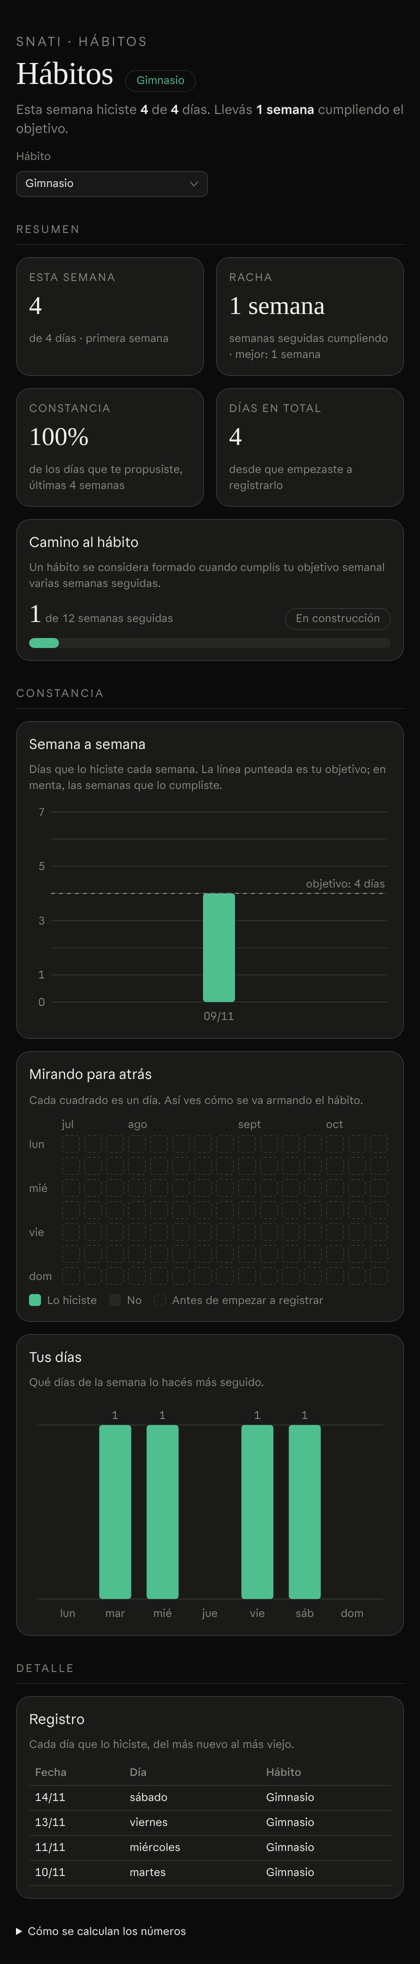
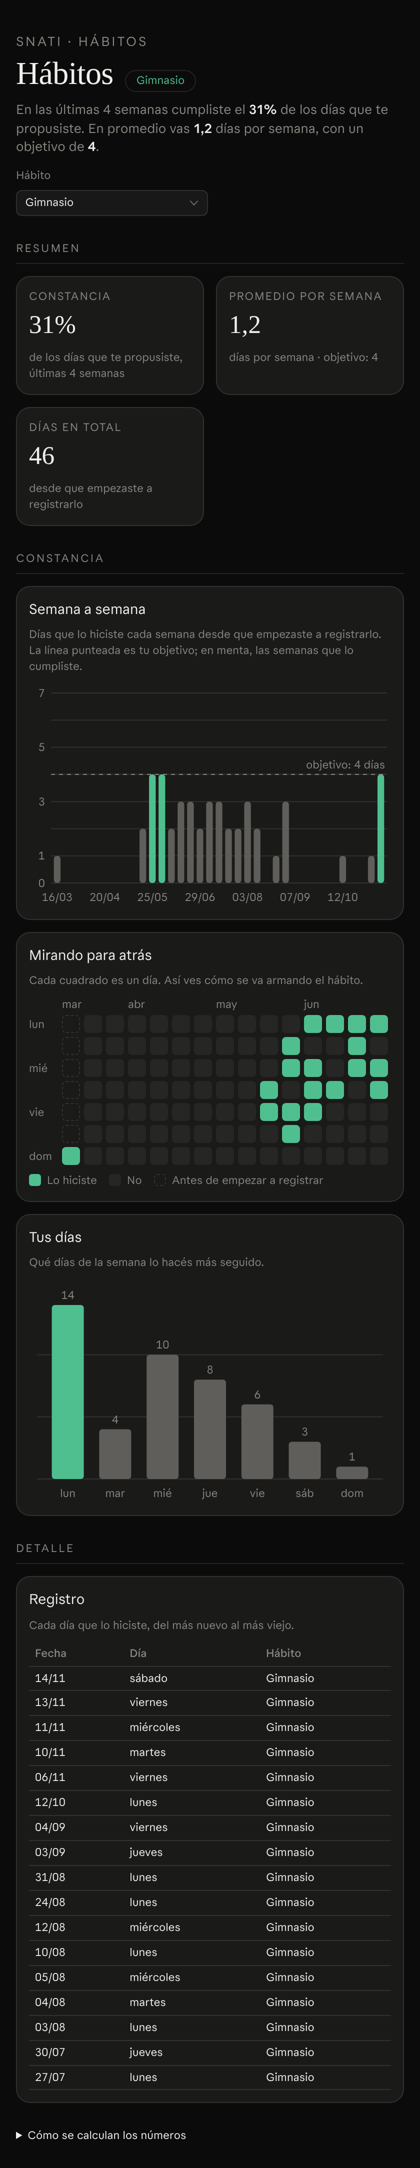
Habitos: historial del gimnasio desde marzo (tracker de Snati) y calendario a todo el ancho
Claude-Session: https://claude.ai/code/session_01PpP39kW1xYnVw7kQo1jQZA

diff --git a/Habitos/Dashboard/index.html b/Habitos/Dashboard/index.html
@@ -80,7 +80,7 @@
   .fz-state.fz-on { color: var(--fz-accent); border-color: color-mix(in srgb, var(--fz-accent) 45%, transparent); }
   .fz-state.fz-mid { color: var(--color-fg-muted); }
   .fz-heat-box { overflow-x: auto; }
-  .fz-heat { display: grid; gap: 4px; min-width: max-content; font-size: var(--cds-font-size-caption); color: var(--color-fg-muted); }
+  .fz-heat { display: grid; gap: 4px; width: max-content; min-width: max-content; font-size: var(--cds-font-size-caption); color: var(--color-fg-muted); }
   .fz-heat .fz-hc { width: 18px; height: 18px; border-radius: 4px; background: var(--fz-raise); }
   .fz-heat .fz-hc.fz-done { background: var(--fz-accent); }
   .fz-heat .fz-hc.fz-before { background: transparent; border: 1px dashed var(--color-border-line); }
@@ -131,22 +131,20 @@
     <p class="fz-eyebrow">Constancia</p>
     <article class="fz-card" id="semana-a-semana">
       <h2>Semana a semana</h2>
-      <p class="fz-note">Días que lo hiciste cada semana. La línea punteada es tu objetivo; en menta, las semanas que lo cumpliste.</p>
+      <p class="fz-note">Días que lo hiciste cada semana desde que empezaste a registrarlo. La línea punteada es tu objetivo; en menta, las semanas que lo cumpliste.</p>
       <div class="fz-chart" data-draw="semanas-chart" data-source="semanas"></div>
     </article>
-    <section class="fz-grid">
-      <article class="fz-card" id="calendario">
-        <h2>Mirando para atrás</h2>
-        <p class="fz-note">Cada cuadrado es un día. Así ves cómo se va armando el hábito.</p>
-        <div class="fz-heat-box"><div class="fz-heat" data-draw="calendario" data-source="registros habitos"></div></div>
-        <div class="fz-legend"><span><i class="fz-done"></i>Lo hiciste</span><span><i></i>No</span><span><i class="fz-before"></i>Antes de empezar a registrar</span></div>
-      </article>
-      <article class="fz-card" id="dias">
-        <h2>Tus días</h2>
-        <p class="fz-note">Qué días de la semana lo hacés más seguido.</p>
-        <div class="fz-chart" data-draw="dias-chart" data-source="por_dia_semana"></div>
-      </article>
-    </section>
+    <article class="fz-card" id="calendario">
+      <h2>Mirando para atrás</h2>
+      <p class="fz-note">Cada cuadrado es un día. Así ves cómo se va armando el hábito.</p>
+      <div class="fz-heat-box"><div class="fz-heat" data-draw="calendario" data-source="registros habitos"></div></div>
+      <div class="fz-legend"><span><i class="fz-done"></i>Lo hiciste</span><span><i></i>No</span><span><i class="fz-before"></i>Antes de empezar a registrar</span></div>
+    </article>
+    <article class="fz-card" id="dias">
+      <h2>Tus días</h2>
+      <p class="fz-note">Qué días de la semana lo hacés más seguido.</p>
+      <div class="fz-chart" data-draw="dias-chart" data-source="por_dia_semana"></div>
+    </article>
   </section>
 
   <section class="fz-sec" aria-label="Detalle">
@@ -310,7 +308,7 @@
     if (d.status === 'error') return fail(el);
     if (d.status !== 'ok') return;
     const s = fzSel();
-    const rows = d.data.filter((r) => r.habito === s).slice(-16);
+    const rows = d.data.filter((r) => r.habito === s).slice(-53);
     if (!rows.length) return;
     const obj = N(rows[rows.length - 1].objetivo);
     const W = Math.max(260, el.clientWidth), H = 224;
@@ -373,7 +371,7 @@
     const hechos = new Set(r.data.filter((x) => x.habito === s).map((x) => x.fecha));
     const fin = [hab.hasta, ...hechos].sort().pop();
     const lunes = (iso) => { const d = new Date(iso + 'T00:00:00Z'); d.setUTCDate(d.getUTCDate() - (d.getUTCDay() + 6) % 7); return d; };
-    const semanas = 18;
+    const semanas = Math.min(53, Math.max(18, Math.round((lunes(fin) - lunes(hab.inicio)) / 604800000) + 1));
     const start = lunes(fin); start.setUTCDate(start.getUTCDate() - 7 * (semanas - 1));
     el.style.gridTemplateColumns = `auto repeat(${semanas}, 18px)`;
     el.style.gridTemplateRows = `14px repeat(7, 18px)`;
